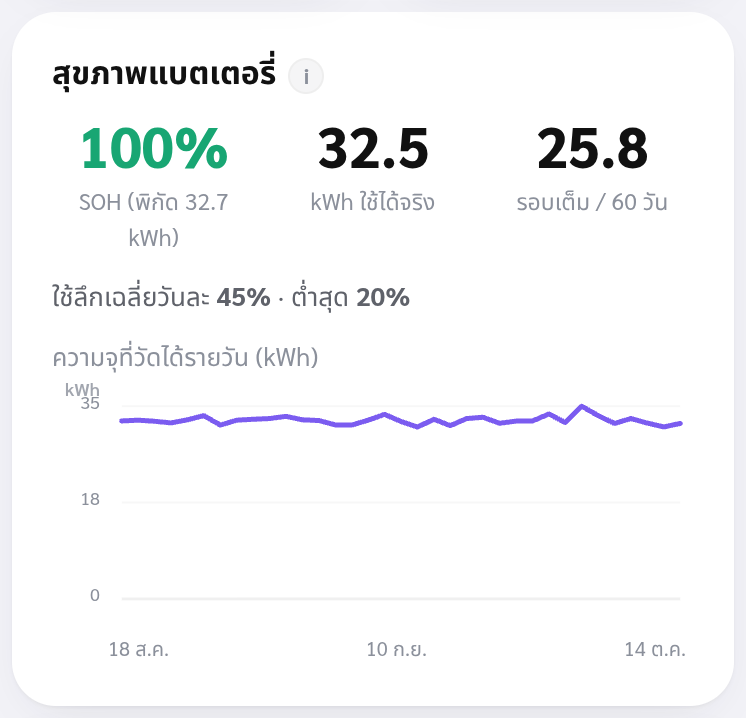
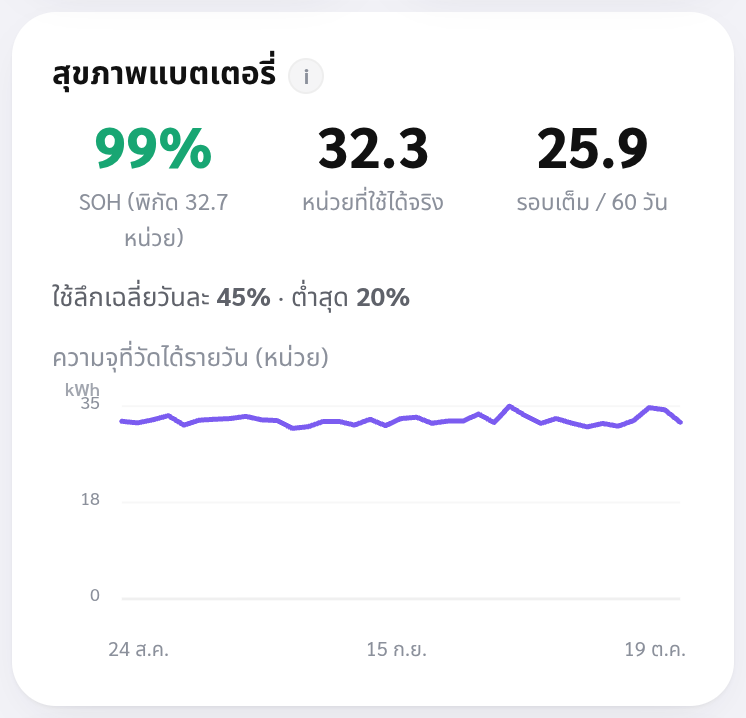
docs: retake README screenshots in daylight with the proofread Thai wording; mockup.mjs takes OUT=<dir> (owner)

diff --git a/README.md b/README.md
@@ -33,7 +33,7 @@
   <a href="#english">English</a>
 </p>
 
-<p align="center"><img src="docs/shots/banner.png?v=20261014" alt="ภาพหน้าจอแอปโซลาร์มอนิเตอร์ 4 หน้า: หน้าหลัก วันนี้ อากาศ ย้อนหลัง" width="880"></p>
+<p align="center"><img src="docs/shots/banner.png?v=20261020" alt="ภาพหน้าจอแอปโซลาร์มอนิเตอร์ 4 หน้า: หน้าหลัก วันนี้ อากาศ ย้อนหลัง" width="880"></p>
 
 ---
 
@@ -58,10 +58,10 @@
 
 <table>
   <tr>
-    <td align="center" width="25%"><img src="docs/shots/home.png?v=20261014" alt="หน้าหลัก" width="200"><br><b>หน้าหลัก</b><br><sub>สถานะ + ผังพลังงานตามเวลาจริง</sub></td>
-    <td align="center" width="25%"><img src="docs/shots/today.png?v=20261014" alt="วันนี้" width="200"><br><b>วันนี้</b><br><sub>ผลิต / ใช้ / ซื้อ / ไฟย้อน</sub></td>
-    <td align="center" width="25%"><img src="docs/shots/weather.png?v=20261014" alt="อากาศ" width="200"><br><b>อากาศ</b><br><sub>พยากรณ์ + ช่วงแดดดีสุด</sub></td>
-    <td align="center" width="25%"><img src="docs/shots/history.png?v=20261014" alt="ย้อนหลัง" width="200"><br><b>ย้อนหลัง</b><br><sub>วัน / เดือน / ปี / ตลอด</sub></td>
+    <td align="center" width="25%"><img src="docs/shots/home.png?v=20261020" alt="หน้าหลัก" width="200"><br><b>หน้าหลัก</b><br><sub>สถานะ + ผังพลังงานตามเวลาจริง</sub></td>
+    <td align="center" width="25%"><img src="docs/shots/today.png?v=20261020" alt="วันนี้" width="200"><br><b>วันนี้</b><br><sub>ผลิต / ใช้ / ซื้อ / ไฟย้อน</sub></td>
+    <td align="center" width="25%"><img src="docs/shots/weather.png?v=20261020" alt="อากาศ" width="200"><br><b>อากาศ</b><br><sub>พยากรณ์ + ช่วงแดดดีสุด</sub></td>
+    <td align="center" width="25%"><img src="docs/shots/history.png?v=20261020" alt="ย้อนหลัง" width="200"><br><b>ย้อนหลัง</b><br><sub>วัน / เดือน / ปี / ตลอด</sub></td>
   </tr>
 </table>
 
@@ -74,17 +74,17 @@
 
 <table>
   <tr>
-    <td align="center"><img src="docs/shots/hero-day.png?v=20261014" alt="กลางวัน" width="240"><br><sub>กลางวัน · ผลิตเต็ม + ไฟย้อน</sub></td>
-    <td align="center"><img src="docs/shots/hero-golden.png?v=20261014" alt="แดดเย็น" width="240"><br><sub>แดดเย็น · ชาร์จแบตเตอรี่</sub></td>
-    <td align="center"><img src="docs/shots/hero-night.png?v=20261014" alt="กลางคืน" width="240"><br><sub>กลางคืน · ไฟในบ้านเปิด แบตเตอรี่จ่ายไฟ</sub></td>
+    <td align="center"><img src="docs/shots/hero-day.png?v=20261020" alt="กลางวัน" width="240"><br><sub>กลางวัน · ผลิตเต็ม + ไฟย้อน</sub></td>
+    <td align="center"><img src="docs/shots/hero-golden.png?v=20261020" alt="แดดเย็น" width="240"><br><sub>แดดเย็น · ชาร์จแบตเตอรี่</sub></td>
+    <td align="center"><img src="docs/shots/hero-night.png?v=20261020" alt="กลางคืน" width="240"><br><sub>กลางคืน · ไฟในบ้านเปิด แบตเตอรี่จ่ายไฟ</sub></td>
   </tr>
   <tr>
     <td align="center" colspan="2"><img src="docs/shots/card-daynight.png?v=20261014" alt="ใช้ไฟกลางวันกับกลางคืน" width="300"><br><sub>ใช้ไฟกลางวัน กับ กลางคืน (เที่ยงถึงเที่ยง)</sub></td>
-    <td align="center"><img src="docs/shots/card-battery-now.png?v=20261014" alt="แบตเตอรี่ตอนนี้" width="240"><br><sub>แบตเตอรี่ตอนนี้ · ใช้ได้ถึงกี่โมง</sub></td>
+    <td align="center"><img src="docs/shots/card-battery-now.png?v=20261020" alt="แบตเตอรี่ตอนนี้" width="240"><br><sub>แบตเตอรี่ตอนนี้ · ใช้ได้ถึงกี่โมง</sub></td>
   </tr>
   <tr>
-    <td align="center" colspan="2"><img src="docs/shots/card-year.png?v=20261014" alt="ภาพรวมทั้งปี" width="300"><br><sub>ภาพรวมทั้งปี + คาดการณ์การผลิตทั้งปี</sub></td>
-    <td align="center"><img src="docs/shots/card-battery.png?v=20261014" alt="สุขภาพแบตเตอรี่" width="240"><br><sub>สุขภาพแบตเตอรี่ (วัดจริง)</sub></td>
+    <td align="center" colspan="2"><img src="docs/shots/card-year.png?v=20261020" alt="ภาพรวมทั้งปี" width="300"><br><sub>ภาพรวมทั้งปี + คาดการณ์การผลิตทั้งปี</sub></td>
+    <td align="center"><img src="docs/shots/card-battery.png?v=20261020" alt="สุขภาพแบตเตอรี่" width="240"><br><sub>สุขภาพแบตเตอรี่ (วัดจริง)</sub></td>
   </tr>
 </table>
 
